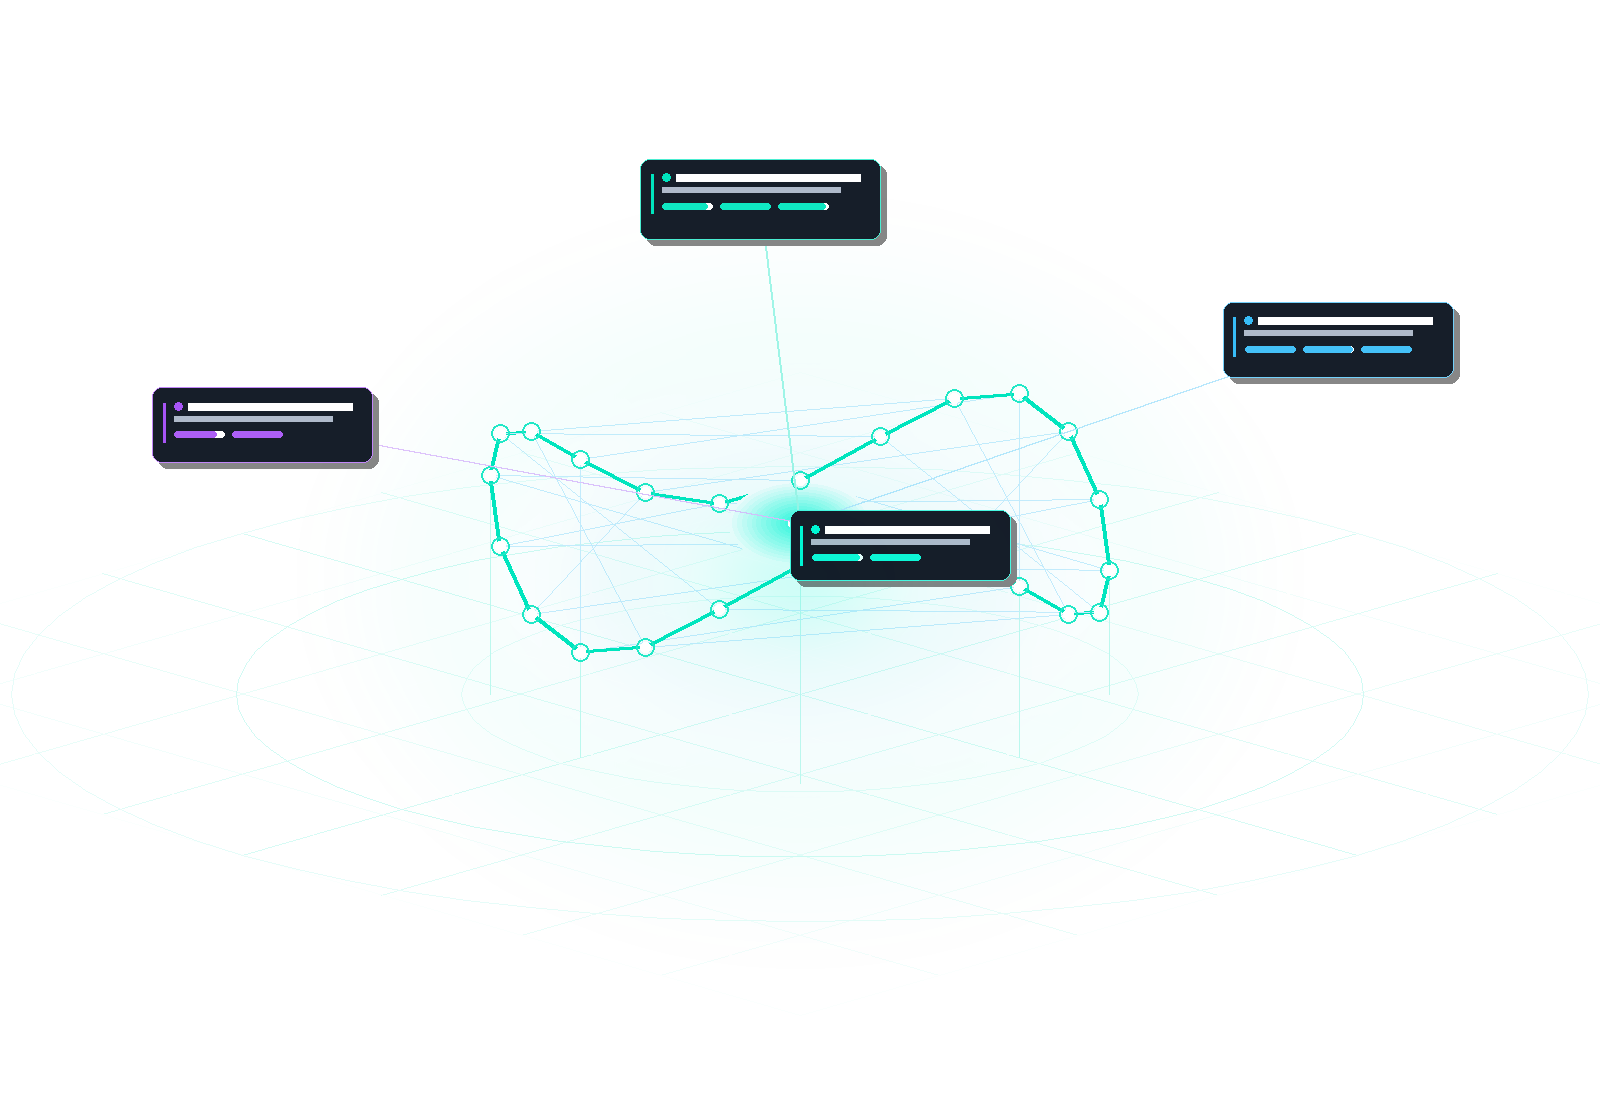
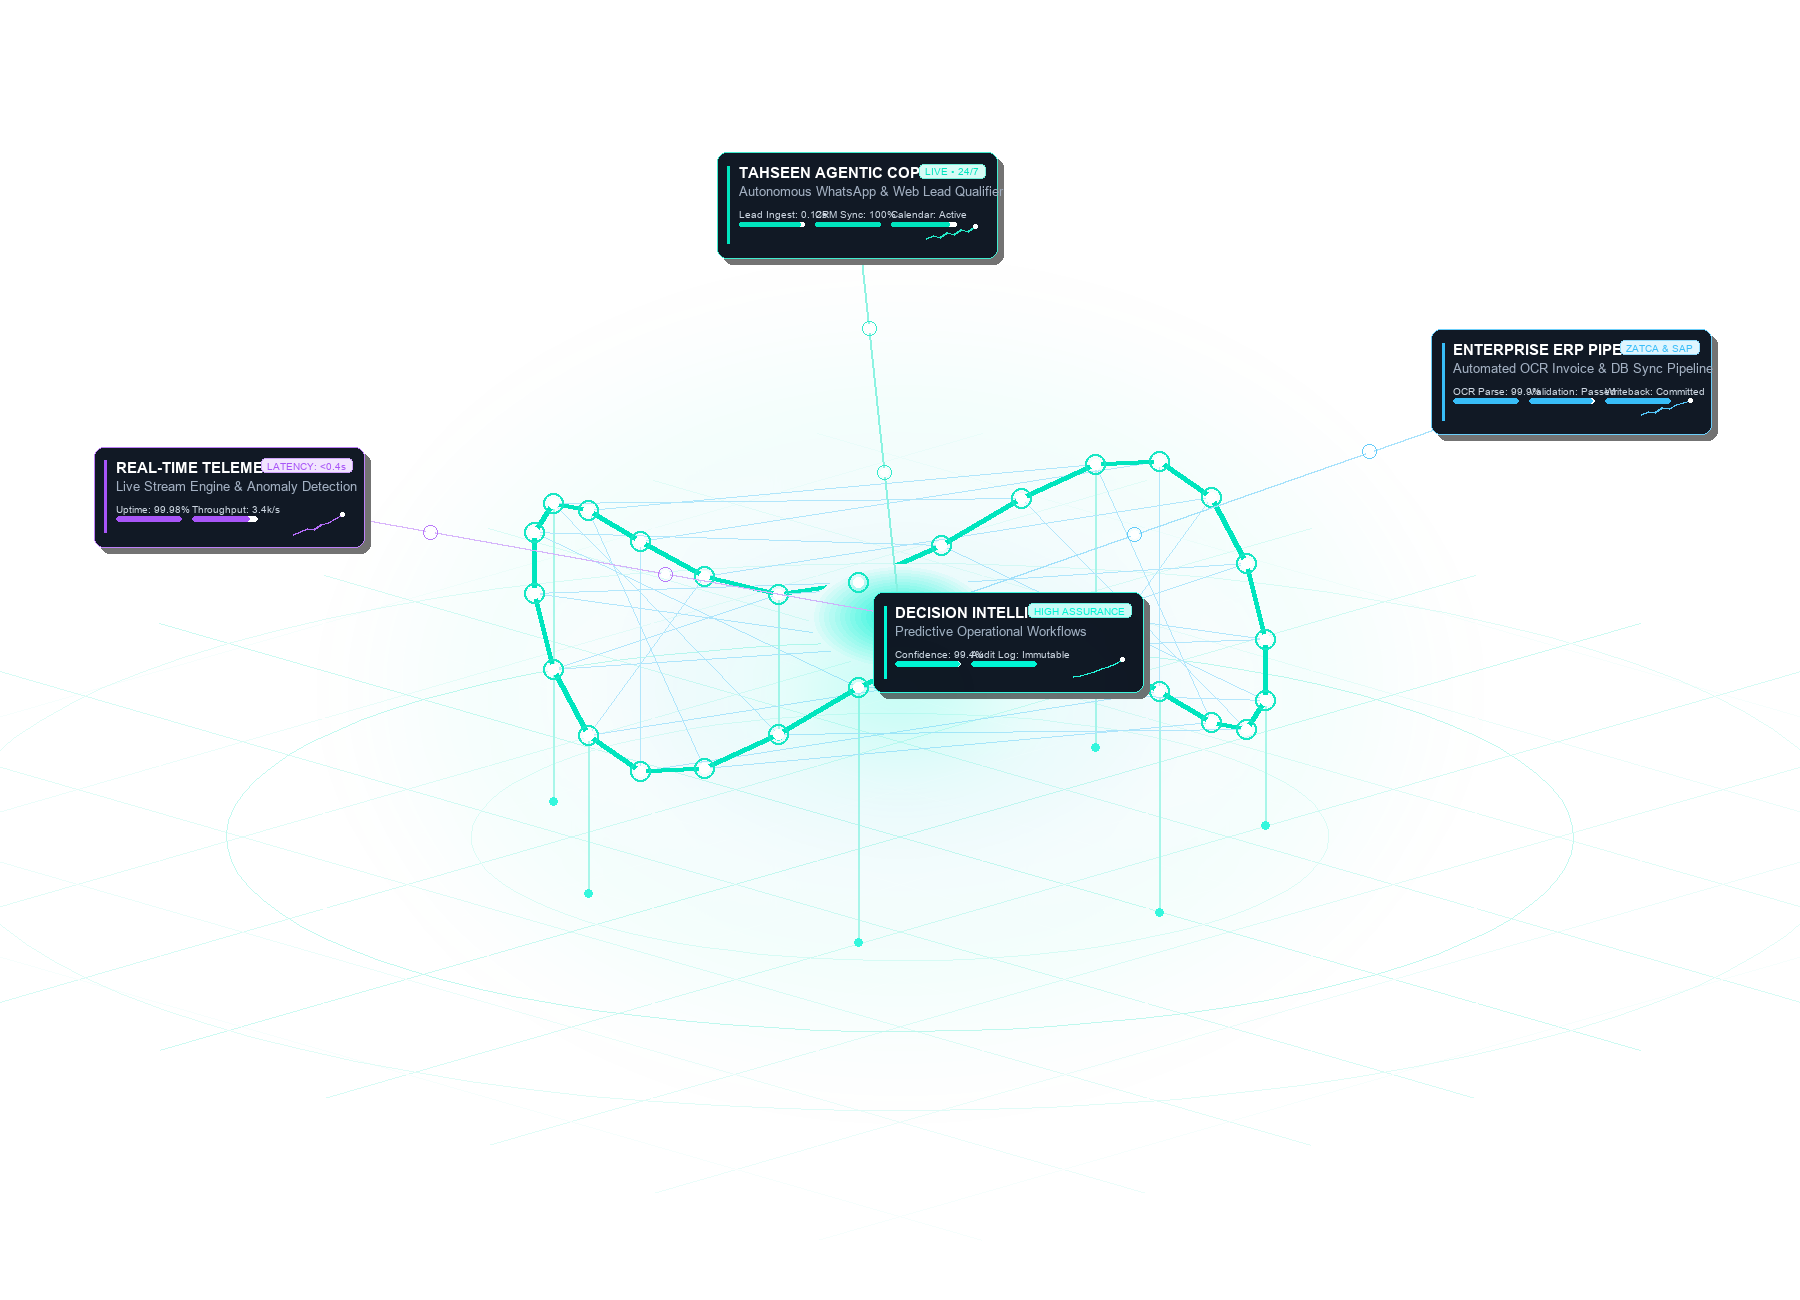
Generate ultra-detailed 3D AI architecture graphic with typography, sparklines, status pills and remove border around illustration

diff --git a/src/app/page.tsx b/src/app/page.tsx
@@ -1475,15 +1475,15 @@ export default function Home() {
               </div>
             </div>
 
-            {/* Right Column: Elaborate AI Solution Engine Graphic */}
+            {/* Right Column: Elaborate AI Solution Engine Graphic (Seamless & Borderless) */}
             <div className="lg:col-span-5 flex items-center justify-center w-full">
-              <div className="relative w-full h-[280px] sm:h-[360px] max-w-[500px] rounded-md overflow-hidden border border-white/10 shadow-2xl bg-black/40 flex items-center justify-center p-2 group hover:border-[#00E5BE]/50 transition-all duration-300">
+              <div className="relative w-full h-[300px] sm:h-[400px] max-w-[560px] flex items-center justify-center group">
                 <Image
                   src="/cta-ai-solution.png"
                   alt="Build Your AI-Powered Solution"
                   fill
-                  sizes="(max-width: 1024px) 100vw, 500px"
-                  className="object-contain p-2 group-hover:scale-105 transition-transform duration-500"
+                  sizes="(max-width: 1024px) 100vw, 560px"
+                  className="object-contain group-hover:scale-105 transition-transform duration-500 drop-shadow-[0_15px_35px_rgba(0,229,190,0.25)]"
                 />
               </div>
             </div>

diff --git a/create_cta_graphic.py b/create_cta_graphic.py
@@ -1,0 +1,215 @@
+from PIL import Image, ImageDraw, ImageFilter, ImageFont
+import math, os
+
+w, h = 1800, 1300
+img = Image.new('RGBA', (w, h), (0, 0, 0, 0))
+
+cx, cy = w // 2, h // 2 + 40
+
+# Fonts
+try:
+    font_mono_bold = ImageFont.truetype('arialbd.ttf', 15)
+    font_mono_sm = ImageFont.truetype('arial.ttf', 12)
+    font_bold = ImageFont.truetype('arialbd.ttf', 18)
+    font_sm = ImageFont.truetype('arial.ttf', 13)
+    font_xs = ImageFont.truetype('arial.ttf', 10)
+    font_lg_bold = ImageFont.truetype('arialbd.ttf', 22)
+except:
+    font_mono_bold = ImageFont.load_default()
+    font_mono_sm = ImageFont.load_default()
+    font_bold = ImageFont.load_default()
+    font_sm = ImageFont.load_default()
+    font_xs = ImageFont.load_default()
+    font_lg_bold = ImageFont.load_default()
+
+# 1. Multi-layered Ambient Atmospheric Glow
+glow = Image.new('RGBA', (w, h), (0, 0, 0, 0))
+gdraw = ImageDraw.Draw(glow)
+for r in range(580, 0, -18):
+    alpha = int(40 * (1 - r / 580))
+    gdraw.ellipse([cx - r, cy - int(r * 0.72), cx + r, cy + int(r * 0.72)], fill=(0, 229, 190, alpha))
+for r in range(350, 0, -12):
+    alpha = int(60 * (1 - r / 350))
+    gdraw.ellipse([cx - r, cy - int(r * 0.6), cx + r, cy + int(r * 0.6)], fill=(6, 182, 212, alpha))
+for r in range(180, 0, -8):
+    alpha = int(95 * (1 - r / 180))
+    gdraw.ellipse([cx - r, cy - int(r * 0.5), cx + r, cy + int(r * 0.5)], fill=(0, 245, 212, alpha))
+glow = glow.filter(ImageFilter.GaussianBlur(40))
+img = Image.alpha_composite(img, glow)
+
+# 2. Isometric Math Projection
+iso_layer = Image.new('RGBA', (w, h), (0, 0, 0, 0))
+idraw = ImageDraw.Draw(iso_layer)
+
+def iso(x, y, z):
+    ix = cx + (x - y) * math.cos(math.radians(30)) * 2.5
+    iy = cy + (x + y) * math.sin(math.radians(30)) * 1.25 - z * 2.1
+    return (ix, iy)
+
+# 3. Ground Perspective Cyber-Grid Plane
+grid_size = 9
+spacing = 38
+z_floor = -70
+
+for i in range(-grid_size, grid_size + 1):
+    p1 = iso(i * spacing, -grid_size * spacing, z_floor)
+    p2 = iso(i * spacing, grid_size * spacing, z_floor)
+    fade = 1.0 - abs(i) / (grid_size + 1)
+    col = (0, 229, 190, int(50 * fade)) if i % 2 == 0 else (255, 255, 255, int(22 * fade))
+    idraw.line([p1, p2], fill=col, width=1)
+    
+    p3 = iso(-grid_size * spacing, i * spacing, z_floor)
+    p4 = iso(grid_size * spacing, i * spacing, z_floor)
+    idraw.line([p3, p4], fill=col, width=1)
+
+# Concentric Orbit Floor Rings with Data Packets
+for rad in [140, 220, 310]:
+    pts = []
+    for deg in range(0, 360, 4):
+        rad_ang = math.radians(deg)
+        pts.append(iso(math.cos(rad_ang) * rad, math.sin(rad_ang) * rad, z_floor))
+    for idx in range(len(pts)):
+        pA = pts[idx]
+        pB = pts[(idx + 1) % len(pts)]
+        idraw.line([pA, pB], fill=(0, 229, 190, 60 if rad==220 else 30), width=1)
+
+# 4. Central 3D Holographic AI Split Torus Core
+core_radius = 120
+core_z = 35
+core_pts = []
+for i in range(28):
+    a = (i / 28) * math.pi * 2
+    x = math.cos(a) * core_radius
+    y = math.sin(a) * core_radius
+    z = core_z + math.sin(a * 3) * 38
+    core_pts.append(iso(x, y, z))
+
+# Connecting laser pillars to floor
+for i in range(0, 28, 4):
+    p_top = core_pts[i]
+    p_bot = iso(math.cos(i/28*math.pi*2)*core_radius, math.sin(i/28*math.pi*2)*core_radius, z_floor)
+    idraw.line([p_top, p_bot], fill=(0, 229, 190, 80), width=2)
+    idraw.ellipse([p_bot[0]-4, p_bot[1]-4, p_bot[0]+4, p_bot[1]+4], fill=(0, 245, 212, 200))
+
+# Interconnected Core Rings
+for i in range(len(core_pts)):
+    p1 = core_pts[i]
+    p2 = core_pts[(i + 1) % len(core_pts)]
+    idraw.line([p1, p2], fill=(0, 229, 190, 255), width=5)
+    # Triangulation beams
+    p_diag = core_pts[(i + 7) % len(core_pts)]
+    idraw.line([p1, p_diag], fill=(56, 189, 248, 90), width=1)
+
+# Radiant Central Intelligence Core
+c_center = iso(0, 0, core_z)
+for r in range(70, 0, -4):
+    alpha = int(240 * (1 - r / 70))
+    idraw.ellipse([c_center[0] - r * 1.3, c_center[1] - r * 0.75, c_center[0] + r * 1.3, c_center[1] + r * 0.75], fill=(0, 245, 212, alpha))
+idraw.ellipse([c_center[0] - 16, c_center[1] - 10, c_center[0] + 16, c_center[1] + 10], fill=(255, 255, 255, 255))
+
+# Core Vertex Lights
+for pt in core_pts:
+    idraw.ellipse([pt[0] - 5, pt[1] - 5, pt[0] + 5, pt[1] + 5], fill=(255, 255, 255, 255))
+    idraw.ellipse([pt[0] - 10, pt[1] - 10, pt[0] + 10, pt[1] + 10], outline=(0, 229, 190, 230), width=2)
+
+# 5. Elaborate Floating 3D Cards with Real Text, Sparklines & Badges
+cards = [
+    {
+        'pos': (-180, -160, 130),
+        'w': 280, 'h': 105,
+        'title': 'TAHSEEN AGENTIC COPILOT',
+        'badge': 'LIVE • 24/7',
+        'badge_col': (0, 229, 190),
+        'desc': 'Autonomous WhatsApp & Web Lead Qualifier',
+        'metrics': [('Lead Ingest', '0.12s', 95), ('CRM Sync', '100%', 100), ('Calendar', 'Active', 90)],
+        'sparkline': [15, 25, 20, 38, 30, 48, 42, 60]
+    },
+    {
+        'pos': (160, -150, 150),
+        'w': 280, 'h': 105,
+        'title': 'ENTERPRISE ERP PIPELINE',
+        'badge': 'ZATCA & SAP',
+        'badge_col': (56, 189, 248),
+        'desc': 'Automated OCR Invoice & DB Sync Pipeline',
+        'metrics': [('OCR Parse', '99.9%', 100), ('Validation', 'Passed', 98), ('Writeback', 'Committed', 100)],
+        'sparkline': [20, 30, 28, 45, 40, 55, 62, 70]
+    },
+    {
+        'pos': (-150, 160, 95),
+        'w': 270, 'h': 100,
+        'title': 'REAL-TIME TELEMETRY',
+        'badge': 'LATENCY: <0.4s',
+        'badge_col': (168, 85, 247),
+        'desc': 'Live Stream Engine & Anomaly Detection',
+        'metrics': [('Uptime', '99.98%', 100), ('Throughput', '3.4k/s', 88)],
+        'sparkline': [10, 18, 32, 28, 44, 52, 65, 80]
+    },
+    {
+        'pos': (180, 130, 115),
+        'w': 270, 'h': 100,
+        'title': 'DECISION INTELLIGENCE',
+        'badge': 'HIGH ASSURANCE',
+        'badge_col': (0, 245, 212),
+        'desc': 'Predictive Operational Workflows',
+        'metrics': [('Confidence', '99.4%', 99), ('Audit Log', 'Immutable', 100)],
+        'sparkline': [22, 28, 35, 42, 50, 60, 68, 85]
+    }
+]
+
+for c in cards:
+    p_center = iso(*c['pos'])
+    cw, ch = c['w'], c['h']
+    x0, y0 = p_center[0] - cw // 2, p_center[1] - ch // 2
+    x1, y1 = x0 + cw, y0 + ch
+    color = c['badge_col']
+    
+    # Glowing data laser beam from core to card
+    idraw.line([c_center, p_center], fill=color + (110,), width=2)
+    # Data pulse packets along beam
+    for frac in [0.35, 0.7]:
+        bx = int(c_center[0] + (p_center[0] - c_center[0]) * frac)
+        by = int(c_center[1] + (p_center[1] - c_center[1]) * frac)
+        idraw.ellipse([bx - 4, by - 4, bx + 4, by + 4], fill=(255, 255, 255, 240))
+        idraw.ellipse([bx - 7, by - 7, bx + 7, by + 7], outline=color + (200,), width=1)
+    
+    # Card shadow & body
+    idraw.rounded_rectangle([x0 + 6, y0 + 6, x1 + 6, y1 + 6], radius=10, fill=(0, 0, 0, 140))
+    idraw.rounded_rectangle([x0, y0, x1, y1], radius=10, fill=(7, 16, 28, 245), outline=color + (190,), width=1)
+    
+    # Left vertical accent line
+    idraw.line([x0 + 12, y0 + 14, x0 + 12, y0 + ch - 14], fill=color + (255,), width=3)
+    
+    # Title & Badge
+    idraw.text((x0 + 22, y0 + 12), c['title'], fill=(255, 255, 255, 255), font=font_mono_bold)
+    # Badge Pill
+    badge_w = idraw.textlength(c['badge'], font=font_xs) + 12
+    idraw.rounded_rectangle([x1 - badge_w - 12, y0 + 11, x1 - 12, y0 + 25], radius=4, fill=color + (40,), outline=color + (140,), width=1)
+    idraw.text((x1 - badge_w - 6, y0 + 13), c['badge'], fill=color + (255,), font=font_xs)
+    
+    # Description text
+    idraw.text((x0 + 22, y0 + 32), c['desc'], fill=(148, 163, 184, 220), font=font_sm)
+    
+    # Metric Bars
+    bx = x0 + 22
+    by = y0 + 56
+    for label, val_str, pct in c['metrics']:
+        idraw.text((bx, by), f'{label}: {val_str}', fill=(203, 213, 225, 240), font=font_xs)
+        idraw.rounded_rectangle([bx, by + 13, bx + 65, by + 18], radius=2, fill=(255, 255, 255, 25))
+        idraw.rounded_rectangle([bx, by + 13, bx + int(65 * (pct / 100)), by + 18], radius=2, fill=color + (255,))
+        bx += 76
+    
+    # Mini Sparkline chart in bottom right
+    sp_x = x1 - 70
+    sp_y = y0 + 72
+    sp_pts = []
+    for s_idx, s_val in enumerate(c['sparkline']):
+        sx = sp_x + s_idx * 7
+        sy = sp_y + 18 - int(s_val * 0.28)
+        sp_pts.append((sx, sy))
+    for s_idx in range(len(sp_pts) - 1):
+        idraw.line([sp_pts[s_idx], sp_pts[s_idx + 1]], fill=color + (220,), width=2)
+    idraw.ellipse([sp_pts[-1][0]-2, sp_pts[-1][1]-2, sp_pts[-1][0]+2, sp_pts[-1][1]+2], fill=(255, 255, 255, 255))
+
+img = Image.alpha_composite(img, iso_layer)
+img.save('C:/Users/sakju/tahseen-ai/public/cta-ai-solution.png', 'PNG')
+print('Successfully generated ultra-detailed cta-ai-solution.png!')
